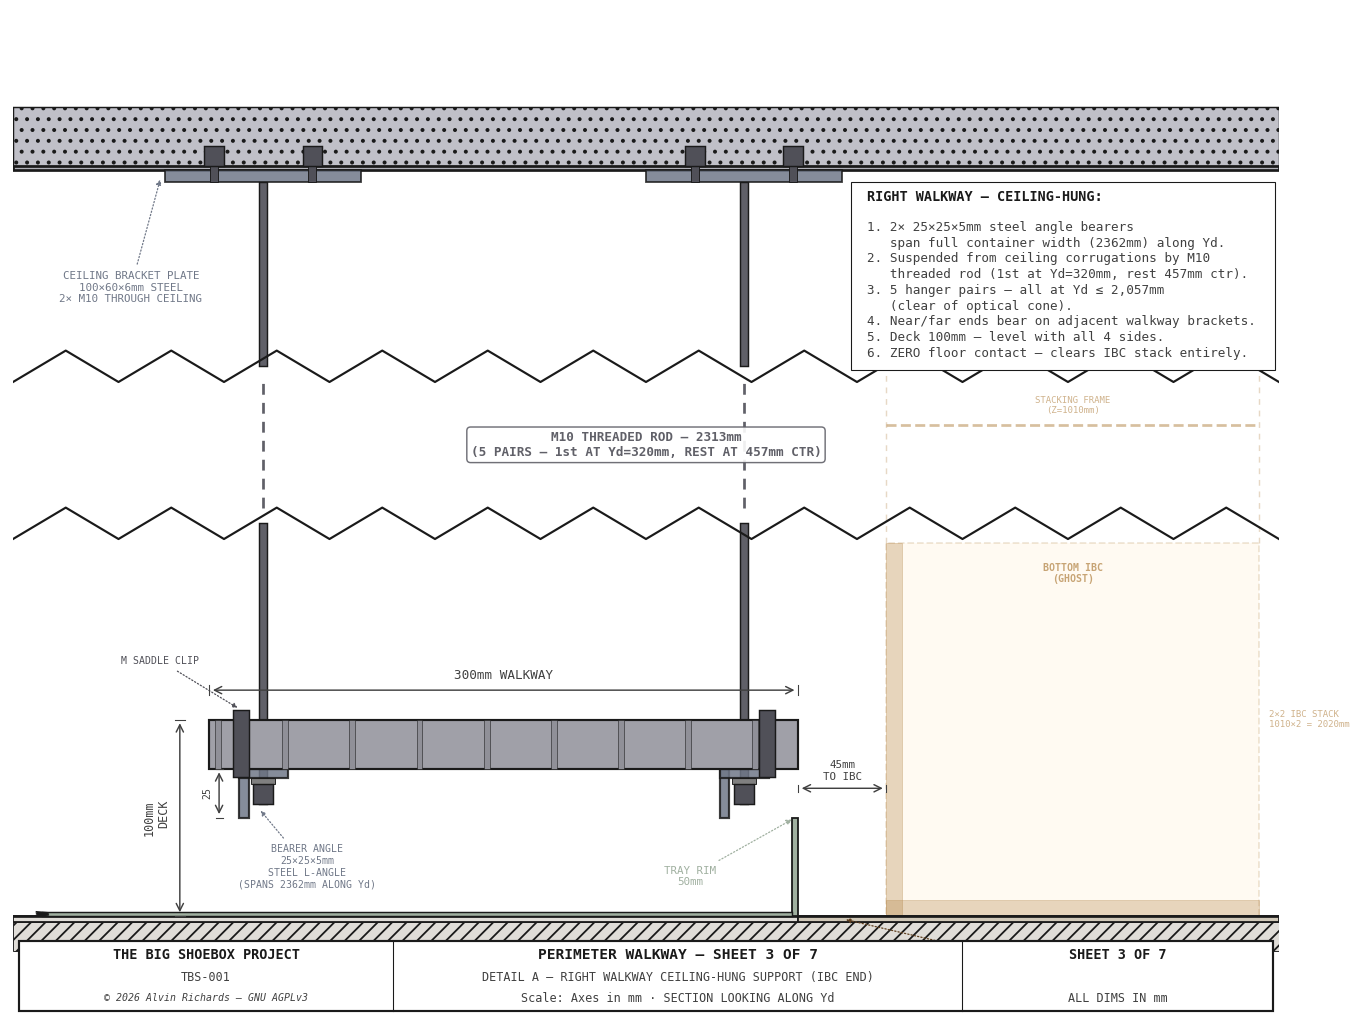
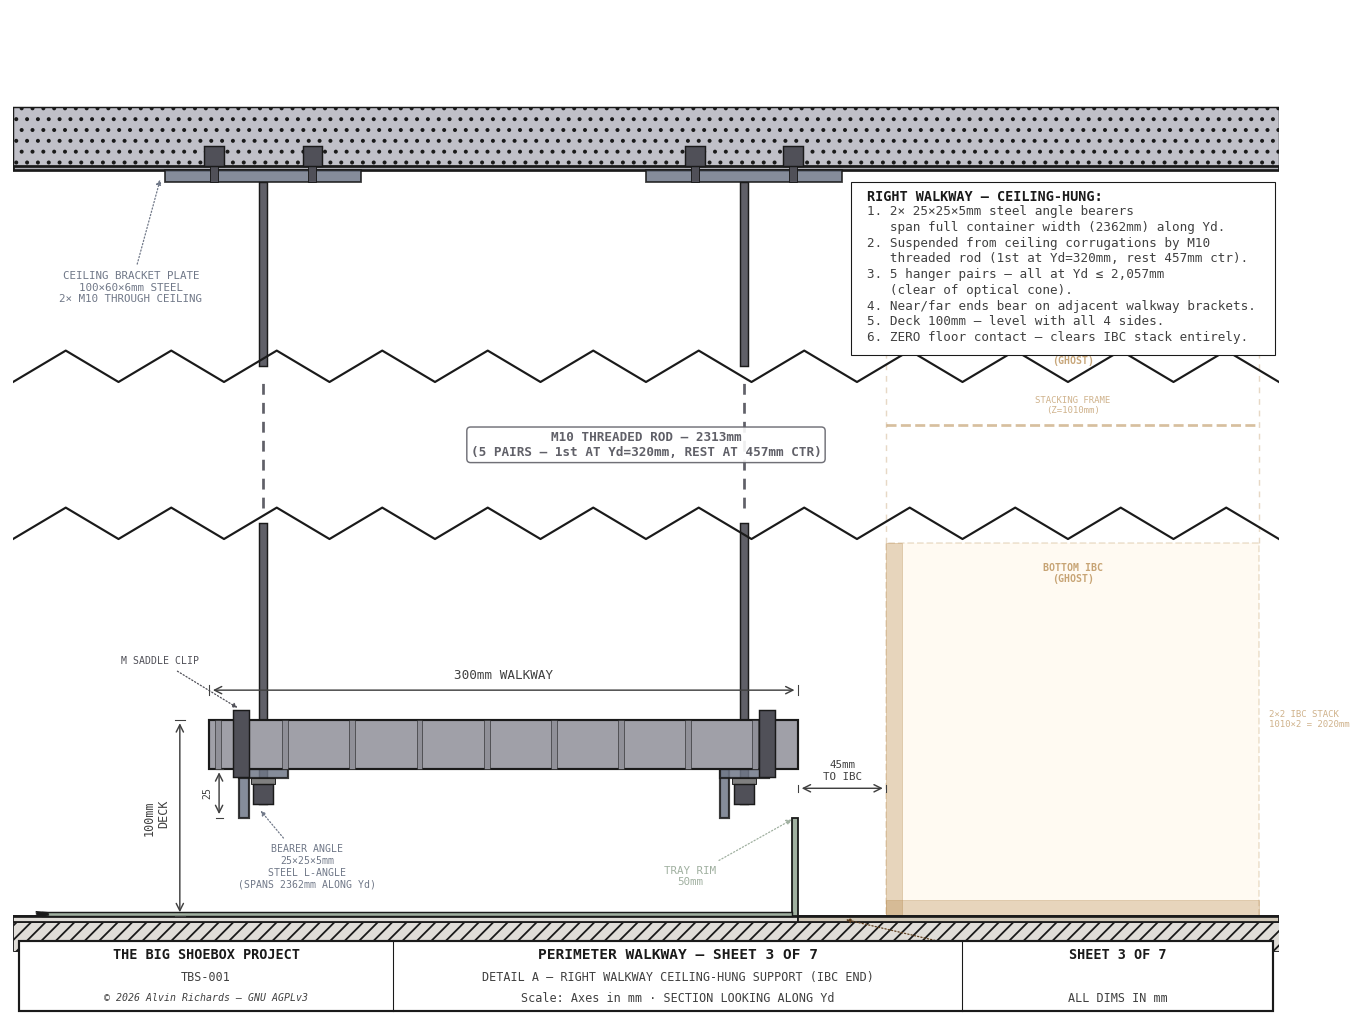
Tidy labels

Changed region(s): [[0.6476, 0.187, 0.9251, 0.3739]]

diff --git a/generate_walkway_diagram.py b/generate_walkway_diagram.py
@@ -1366,7 +1366,6 @@ def sheet3():
     notes_top = sy(zy_top(C_HGT - CEIL_CORR_H + 20))
     notes = [
         "RIGHT WALKWAY \u2014 CEILING-HUNG:",
-        "",
         f"1. 2\u00d7 {BEARER_S}\u00d7{BEARER_S}\u00d7{BEARER_T}mm steel angle bearers",
         f"   span full container width ({C_WID}mm) along Yd.",
         f"2. Suspended from ceiling corrugations by M{HANGER_D}",
@@ -1990,7 +1989,6 @@ def sheet5():
     notes_top = sy(Z_HI - 3)
     notes = [
         "LEFT WALKWAY SUPPORT SYSTEM:",
-        "",
         f"1. BEARER BEAM ({BEAM_SZ}\u00d7{BEAM_SZ}\u00d7{BEAM_T}mm Al RHS) at X={LEFT_WK_R}mm spans {WALKWAY_LEFT_SPAN}mm along Yd. Bolted to near/far bracket vertical legs.",
         f"2. {LEFT_WK_LEG_N} FLOOR LEGS at X={OUTER_LEG_X}mm ({leg_spacing}mm centers) on bare floor outside processing tray.",
         f"3. BEARING STRIP (25\u00d725\u00d73mm Al angle) on tray rim at X={LEFT_WK_L}mm.",
@@ -2908,11 +2906,10 @@ def sheet7():
             **FONT, zorder=15, style="italic")
 
     # ── Notes ────────────────────────────────────────────────────────────────
-    notes_x = sx(W_ARM_W + 40)
+    notes_x = sx(W_ARM_W + 10)
     notes_top = sy(Z_HI - 10)
     notes = [
         "WIDENED BRACKET NOTES:",
-        "",
         f"1. {W_BRKT_T}mm plate (vs {BRKT_T}mm standard).",
         f"2. {W_BRKT_VERT}mm vertical leg (vs {BRKT_VERT}mm standard).",
         f"3. 500mm arm reach for EP + battery bank access.",
@@ -2925,7 +2922,7 @@ def sheet7():
         f"   (Sheet 2).",
     ]
     draw_notes(ax, notes, notes_x, notes_top,
-               spacing=sy(6), fs=7, width=sx(130), font=FONT)
+               spacing=sy(6), fs=7, width=sx(160), font=FONT)
 
     # ── Title block ───────────────────────────────────────────────────────────
     title_block(ax, "SHEET 7 OF 7",
